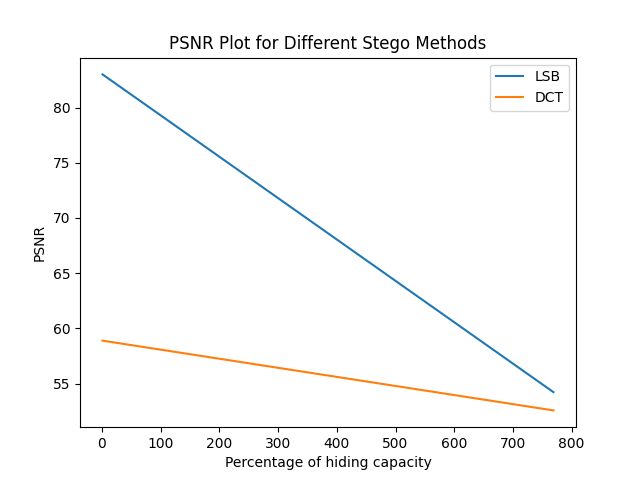
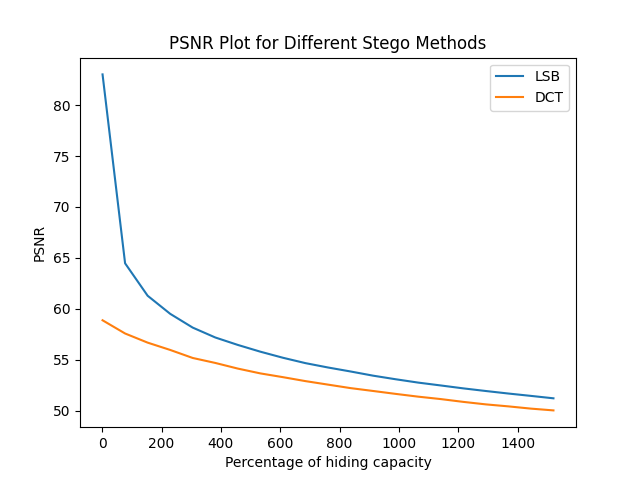
fixed plot_metrics to get plots

diff --git a/plot_metrics.py b/plot_metrics.py
@@ -10,7 +10,7 @@ import steganography as stego
 import metrics as metriclib
 from metrics import Metric
 
-def plot_psnr_graph(cover_img: cv2.Mat, full_secret: bytes, file_to_save: str, hidden_capacity_perc: int = 2) -> None:
+def plot_psnr_graph(cover_img: cv2.Mat, full_secret: bytes, file_to_save: str, hidden_capacity_perc: int = 5) -> None:
     """
     Save psnr plot for given cover_img for different hiding
     if cover_img is not grayscale, will be using grayscale
@@ -27,13 +27,13 @@ def plot_psnr_graph(cover_img: cv2.Mat, full_secret: bytes, file_to_save: str, h
     x = []
 
     
-    for hidden_capacity in range(1, size, size//perc_increment):
+    for hidden_capacity in range(1, size, size*perc_increment//100):
         for stego_method in mode_to_psnr:
             secret = full_secret[:hidden_capacity]
             stego_img = stego.hide(Image(cover_img), secret, stego_method).matrix if hidden_capacity > 0 else cover_img
 
-            cv2.imwrite(f"{stego_method.name}_{hidden_capacity/size * 100}.png", stego_img)
-
+            # cv2.imwrite(f"{stego_method.name}_{hidden_capacity/size * 100}.png", stego_img)
+            print(hidden_capacity, size)
             mode_to_psnr[stego_method].append(metriclib.get_psnr(cover_img, stego_img))
         x.append(hidden_capacity)
 
@@ -50,7 +50,7 @@ def plot_psnr_graph(cover_img: cv2.Mat, full_secret: bytes, file_to_save: str, h
     plt.savefig(file_to_save)
 
 
-def plot_rs_graph(cover_img: cv2.Mat, full_secret: bytes, file_to_save: str, hidden_capacity_perc: int = 2, stego_method = None) -> None:
+def plot_rs_graph(cover_img: cv2.Mat, full_secret: bytes, file_to_save: str, hidden_capacity_perc: int = 5, stego_method = None) -> None:
     """
     Save rs plot for the given cover_img storing full_secret at different capacities
     if cover_img is not grayscale, will be using grayscale
@@ -68,7 +68,7 @@ def plot_rs_graph(cover_img: cv2.Mat, full_secret: bytes, file_to_save: str, hid
 
     
 
-    for hidden_capacity in range(0, size, size//perc_increment):
+    for hidden_capacity in range(0, size, size*perc_increment//100):
         secret = full_secret[:hidden_capacity]
         img = cover_img
         if stego_method:
